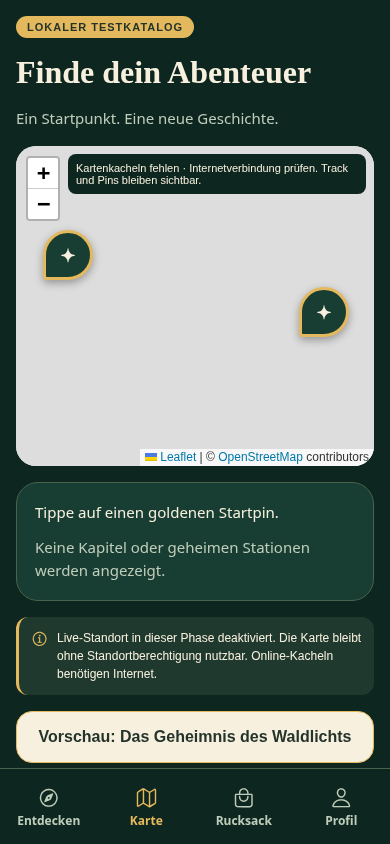
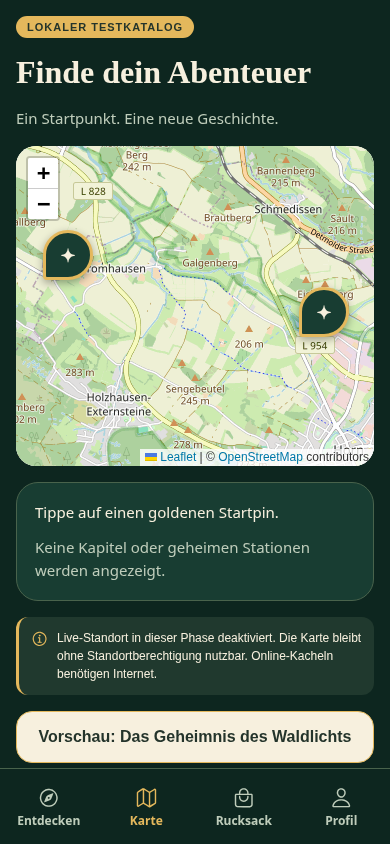
Verify real map tiles and record approved design review

Changed region(s): [[0.0308, 0.154, 0.9846, 0.5545]]

diff --git a/docs/implementation/REVIEW.md b/docs/implementation/REVIEW.md
@@ -2,7 +2,7 @@
 
 **Stand:** 17.10.2026 · **Branch:** `feat/wyldo-design-v12` · **Basis:** `d15cd71` (Masterpaket V1.2). **Implementierungscommit:** `65986c8`. **PR:** [#1](https://github.com/carljust/app-wyldo/pull/1), offen; Feature-Branch erfolgreich gepusht.
 
-**Status:** Implementierung zur visuellen Prüfung, keine Designabnahme und keine Outdoor-Freigabe. Online-Kartenkacheln sind im Testbrowser wegen fehlendem Vertrauen in die bereitgestellte Cloud-Proxy-CA weiterhin nicht verifiziert. Die Netzwerkfreigabe und die GitHub-PR-API funktionieren inzwischen. Kein Backend, keine Quest-Engine, keine produktive Station und keine Belohnungsvergabe implementiert.
+**Status:** Phase 1–2 vom Nutzer visuell freigegeben. Die dauerhafte Aufnahme der bereitgestellten Cloud-Proxy-CA wurde ebenfalls ausdrücklich genehmigt. Echte OSM-Basiskarten werden jetzt im Browser mit aktiver TLS-Prüfung geladen; Screenshots aktualisiert. Kein Backend, keine Quest-Engine, keine produktive Station und keine Belohnungsvergabe implementiert. Native Geräte- und Outdoor-Freigaben bleiben offen.
 
 ## Geliefert
 
@@ -20,11 +20,11 @@ Das hochgeladene Paket wurde aus seinem ZIP-Ordnernamen nach `AGENTS.md`, `CODEX
 | `npm run format:check` | Erfolgreich; Formatprüfung, kein semantischer Linter |
 | `CI=1 EXPO_NO_TELEMETRY=1 EXPO_OFFLINE=1 npm run build:web` | Produktions-Webexport erfolgreich |
 | `CI=1 EXPO_NO_TELEMETRY=1 EXPO_OFFLINE=1 npx expo export --platform ios --platform android --output-dir /tmp/wyldo-native-export` | Beide Hermes-/JS-Exports erfolgreich; keine nativen Binärbuilds |
-| `npm run test:ui` gegen laufenden Devserver | **42/42** Browserprüfungen bestanden; keine Browser-Runtimefehler; 30 Screenshots |
+| `npm run test:ui` gegen laufenden Devserver | **45/45** Browserprüfungen bestanden; keine Browser-Runtimefehler; 30 aktualisierte Screenshots, einschließlich geladener OSM-Basiskarten |
 | `node scripts/production-check.mjs` gegen lokal bedienten `dist`-SPA-Export | **3/3** Browserprüfungen bestanden: kein Draft im Discovery, direkter Draftlink gesperrt, Simulation gesperrt |
 | `git diff --check` | Keine Whitespacefehler |
 
-UI-Protokoll: [ui-results.json](ui-results.json). UI-Tests prüfen alle drei Viewports, die unabhängige Auswahl beider Questpins, leere Routen, nur einen gemeinsamen Start/Zielpin, vorhandenen GPX-Pfad, Luftlinie, Headingänderung, Pause/Fortsetzen, fehlenden Standort, Kachelfehler und horizontale Überläufe. Offline-Prüfung betrifft lokal vorhandene Questdaten bei **gesperrten Tile-Anfragen**, nicht vollständiges Web-Neuladen ohne Netzwerk und nicht Offline-Kachelpakete.
+UI-Protokoll: [ui-results.json](ui-results.json). UI-Tests prüfen erfolgreiche echte Tile-Antworten ohne OSM-Blockheader und geladene Rasterbilder bei allen drei Viewports, die unabhängige Auswahl beider Questpins, leere Routen, nur einen gemeinsamen Start/Zielpin, vorhandenen GPX-Pfad, Luftlinie, Headingänderung, Pause/Fortsetzen, fehlenden Standort, Kachelfehler und horizontale Überläufe. Offline-Prüfung betrifft lokal vorhandene Questdaten bei **gesperrten Tile-Anfragen**, nicht vollständiges Web-Neuladen ohne Netzwerk und nicht Offline-Kachelpakete.
 
 ### Bekannte Installations-/Buildhinweise
 
@@ -45,18 +45,18 @@ Die Vektorlandschaft ist eigene dekorative Prototypgrafik, kein geografischer Na
 
 ## Offene Punkte und konkrete Blocker
 
-1. **Kartenkacheln:** Anfangs HTTP 403 beim Cloudproxy-CONNECT; die gespeicherte Domainfreigabe ist inzwischen wirksam. Der Browser scheitert nun nachvollziehbar mit `net::ERR_CERT_AUTHORITY_INVALID`: Die bereitgestellte `environment-proxy-ca.crt` fehlt im Chromium-NSS-Vertrauensspeicher. Die automatische Freigabeprüfung hat deren dauerhaften Import abgelehnt, da er das Vertrauen für künftigen Browserverkehr erweitert; der Import wurde nicht ausgeführt und kein TLS-Bypass eingesetzt. Ein separater curl-HEAD erhält zwar HTTP 200, aber auch einen OSM-`x-blocked`-Header; das beweist ebenfalls kein korrektes Kartenbild. Screenshotkarten zeigen deshalb ehrlich den Kachelfehler, die echte georeferenzierte GPX-Geometrie und Marker. **Eine geladene Basiskarte wurde nicht verifiziert.** Explizite Zustimmung zur Browser-CA-Konfiguration ist offen; danach Browser-Tiles samt OSM-Policy prüfen und Screenshots aktualisieren.
+1. **Kartenkacheln – behoben:** Die Domainfreigabe ist wirksam. Nach ausdrücklicher Nutzerzustimmung wurde die vom Cloudsystem bereitgestellte `environment-proxy-ca.crt` per `certutil -A` für Chromiums NSS-Speicher zugelassen. Zertifikatsfingerprint gegen die bereitgestellte CA geprüft; NSS führt denselben Zertifikatsinhalt unter `OpenAI-nebula-dns`. Schreibzugriff auf `/home/agent/.pki/nssdb` war für die wirksame Einrichtung erforderlich. Kein Abschalten oder selektives Umgehen der TLS-Prüfung. Browser-Tileantworten: HTTP 200 ohne `x-blocked`, tatsächlich geladene Rasterbilder und visuell geprüfte OSM-Basiskarte. Die frühere automatische Ablehnung wurde durch die explizite Zustimmung des Nutzers aufgelöst. Separate Fehler-Screenshots werden nun gezielt mit abgebrochenen Tile-Anfragen erzeugt; reguläre Karten-Screenshots zeigen die geladene Karte.
 2. **Pull Request:** Die anfängliche GitHub-API-Netzwerksperre ist behoben. [PR #1](https://github.com/carljust/app-wyldo/pull/1) wurde tatsächlich erstellt und sein Status `OPEN` per API bestätigt. Branch und Commit sind remote verifiziert. Beschreibung auch in [PR.md](PR.md).
 3. **Native Tests:** Keine iOS-/Android-Simulatoren/Geräte und keine signierten Development Builds geprüft. Android-Maps-Key/SDK-Einrichtung, native Kachelfailure-Zustände, Zoomclustering, Touch, Safe Areas und Rendering auf Geräten sind offen. Expo Go nicht als unterstützt bestätigt.
 4. **Live-Funktionen:** GPS/Kompass nur Simulation; `expo-location`-/Berechtigungsintegration erst nach späterer Freigabe. Kein Feldcheck, keine bestätigten Stationen, kein sicherer Produktivstart. Der importierte Track misst ca. 2,55 km, beweist aber keine sichere Wegführung oder Sichtmerkmale.
 5. **Offline/Backend:** Metadaten und Track im lokalen App-Bundle; SQLite, Mediacache, App-Shell-Offline für Web, serverseitiger Sync und Quest-Engine sind geplant, nicht implementiert.
 6. **Offene Produktfragen:** finale Cover/Texturgrad und Typografie; Tile-Anbieter/Lizenz für Produktion und Offline; finale Alter-/Dauer-/Schwierigkeitsfreigabe; acht Feldstationen und Medien. Keine dieser offenen Entscheidungen wird durch Mockupdetails oder GPX-Samples ersetzt.
 
-Die Domains `tile.openstreetmap.org` und `api.github.com` sind im Cloud-Konfigurationsentwurf ergänzt. Die laufende Instanz hat die Domainfreigabe inzwischen übernommen; die gesonderte Browser-Zertifikatsfrage bleibt offen. `install_script` (npm ci, TypeScript, Domänentests) und `start_skill` (Devserver, Readiness und Freigabegrenzen) sind ebenfalls gespeichert; das veröffentlicht noch keinen Cloud-Snapshot. Gespeicherte Installations-/Startanweisungen und Veröffentlichung des Cloud-Snapshots sind getrennt von App-Designfreigabe und Produktveröffentlichung.
+Die Domains `tile.openstreetmap.org` und `api.github.com` sind im Cloud-Konfigurationsentwurf ergänzt. Die laufende Instanz hat die Domainfreigabe übernommen; die Browser-Zertifikatsfrage ist nach ausdrücklicher Zustimmung behoben. `install_script` (npm ci, TypeScript, Domänentests) und `start_skill` (Devserver, Readiness und Freigabegrenzen) sind ebenfalls gespeichert; das veröffentlicht noch keinen Cloud-Snapshot. Gespeicherte Installations-/Startanweisungen und Veröffentlichung des Cloud-Snapshots sind getrennt von App-Designfreigabe und Produktveröffentlichung.
 
 ## Screenshotgalerie
 
-Alle Dateien sind echte Chromium-Aufnahmen der Expo-Web-App mit jeweils exakt benanntem Viewport. Keine Mockups und keine Bildmontagen. Siehe [screenshots](screenshots/); Kartenbilder zeigen den bestehenden Netzwerkblocker.
+Alle Dateien sind echte Chromium-Aufnahmen der Expo-Web-App mit jeweils exakt benanntem Viewport. Keine Mockups und keine Bildmontagen. Siehe [screenshots](screenshots/); Die regulären Kartenbilder zeigen geladene OSM-Kacheln; nur die ausdrücklich benannten Kachelfehler-Screenshots zeigen den simulierten Fehlerzustand.
 
 | Ansicht | 320×640 | 360×800 | 390×844 |
 | --- | --- | --- | --- |
@@ -73,4 +73,4 @@ Alle Dateien sind echte Chromium-Aufnahmen der Expo-Web-App mit jeweils exakt be
 
 ## Stop-Gate
 
-**Bitte Entdecken, Questdetails, globale Karte und beide Navigationsansichten visuell freigeben oder konkrete Designänderungen nennen. Bis dahin keine weitere Phase beginnen.** Die Netzwerk- und Gerätetestlücken bleiben dabei ausdrücklich offen.
+**Designfreigabe für Phase 1–2 und Zustimmung zur dauerhaften Browser-CA-Konfiguration vom Nutzer erhalten.** Die anschließende Kartenprüfung und Screenshotaktualisierung sind abgeschlossen. Weitere Entwicklungsphasen wurden nicht begonnen. Native Geräte-, Kartenlizenz- und Feldabnahmen bleiben erforderlich; die Designfreigabe veröffentlicht keine Outdoor-Quest.

diff --git a/docs/implementation/PR.md b/docs/implementation/PR.md
@@ -4,8 +4,10 @@ Das bisher leere App-Repository erhält einen eigenständigen React-Native-/Expo
 
 Das Masterpaket wurde inhaltlich unverändert in die vorgesehenen Rootpfade verschoben. Die Architektur trennt Routing, Features, UI, Domäne und lokale Repositoryadapter.
 
-Validierung: `npm ci`, TypeScript und Formatprüfung erfolgreich; 12 Domänentests, 42 Browserprüfungen und 3 Produktions-Sperrprüfungen bestanden. Webexport sowie iOS-/Android-JS-/Hermes-Exports erfolgreich. 30 echte Screenshots bei 320×640, 360×800 und 390×844, Architektur, Befehle und Abweichungsliste stehen unter [`docs/implementation/REVIEW.md`](https://github.com/carljust/app-wyldo/blob/feat/wyldo-design-v12/docs/implementation/REVIEW.md).
+Validierung: `npm ci`, TypeScript und Formatprüfung erfolgreich; 12 Domänentests, 45 Browserprüfungen und 3 Produktions-Sperrprüfungen bestanden. Webexport sowie iOS-/Android-JS-/Hermes-Exports erfolgreich. 30 echte Screenshots bei 320×640, 360×800 und 390×844, Architektur, Befehle und Abweichungsliste stehen unter [`docs/implementation/REVIEW.md`](https://github.com/carljust/app-wyldo/blob/feat/wyldo-design-v12/docs/implementation/REVIEW.md).
 
-Offen: Die Domainfreigabe ist wirksam, aber Chromium vertraut der bereitgestellten Cloud-Proxy-CA noch nicht (`ERR_CERT_AUTHORITY_INVALID`). Der permanente CA-Import wurde durch die automatische Freigabeprüfung abgelehnt und nicht ausgeführt. Screenshots zeigen den ehrlichen Kachelfehler samt Track/Pins; eine geladene Basiskarte bleibt unbestätigt. Native Geräte-/Simulatorprüfung und Android-Maps-Key-Konfiguration fehlen. Das Design nutzt eigene Vektorlandschaften statt noch fehlender separater Natur-Cover. Keine Outdoor- oder Produktionsfreigabe behauptet.
+Kartenprüfung nach expliziter Nutzerzustimmung zur Browser-Proxy-CA-Konfiguration erfolgreich: echte OSM-Rasterkacheln, vollständiger GPX-Track und Startpins werden mit eingeschalteter TLS-Prüfung geladen. Die 30 Screenshots sind aktualisiert; Tile-Fehler werden separat gezielt simuliert.
 
-**Designreview erforderlich. STOP nach Phase 2; keine Folgephase ohne ausdrückliche visuelle Freigabe.**
+Offen: Native Geräte-/Simulatorprüfung und Android-Maps-Key-Konfiguration. Das Design nutzt eigene Vektorlandschaften statt noch fehlender separater Natur-Cover. Keine Outdoor- oder Produktionsfreigabe behauptet.
+
+**Designfreigabe für Phase 1–2 vom Nutzer erhalten. Keine Folgephase implementiert; native Geräte- und Outdoor-Abnahmen bleiben offen.**

diff --git a/README.md b/README.md
@@ -53,4 +53,4 @@ Das hochgeladene Paket wurde in die vorgesehenen Rootpfade verschoben: [AGENTS.m
 
 Architektur, Einschränkungen, Screenshotvergleich und Prüfergebnisse: [docs/implementation/REVIEW.md](docs/implementation/REVIEW.md).
 
-**STOP nach Phase 2. Keine Quest-Engine oder produktive Backendanbindung vor ausdrücklicher Designfreigabe.**
+**Phase 1–2 ist vom Nutzer visuell freigegeben.** Die anschließende Kartenprüfung lädt echte OSM-Kacheln mit aktivem TLS. Keine Quest-Engine oder produktive Backendanbindung in diesem Paket. Native Geräte-/Outdoor-Abnahme steht noch aus.
